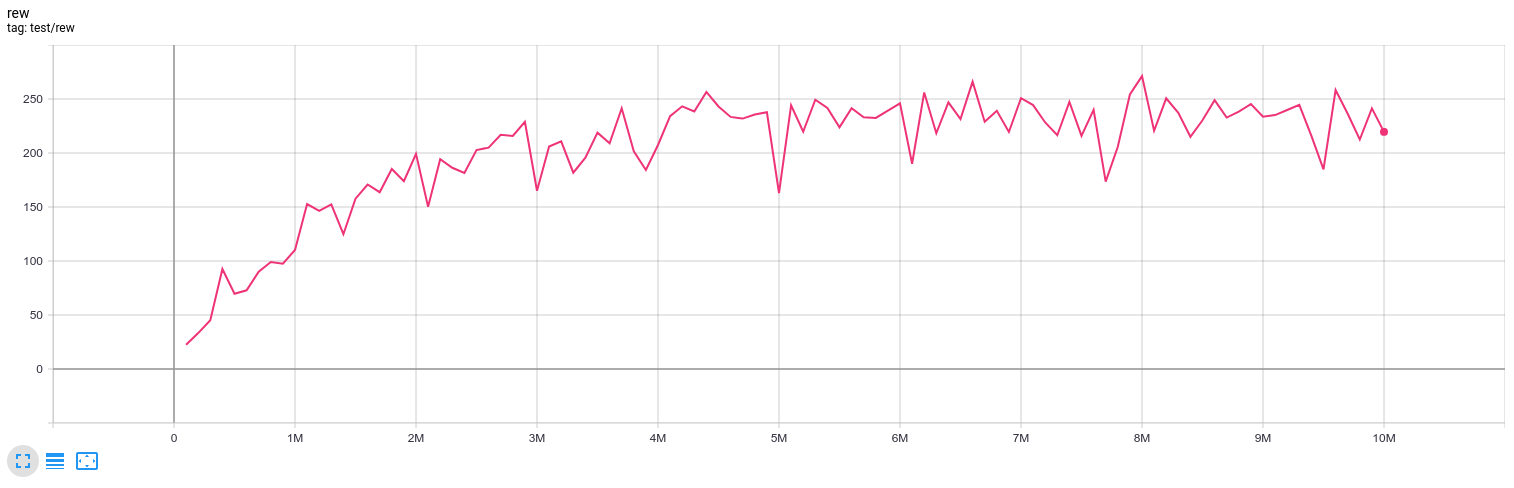
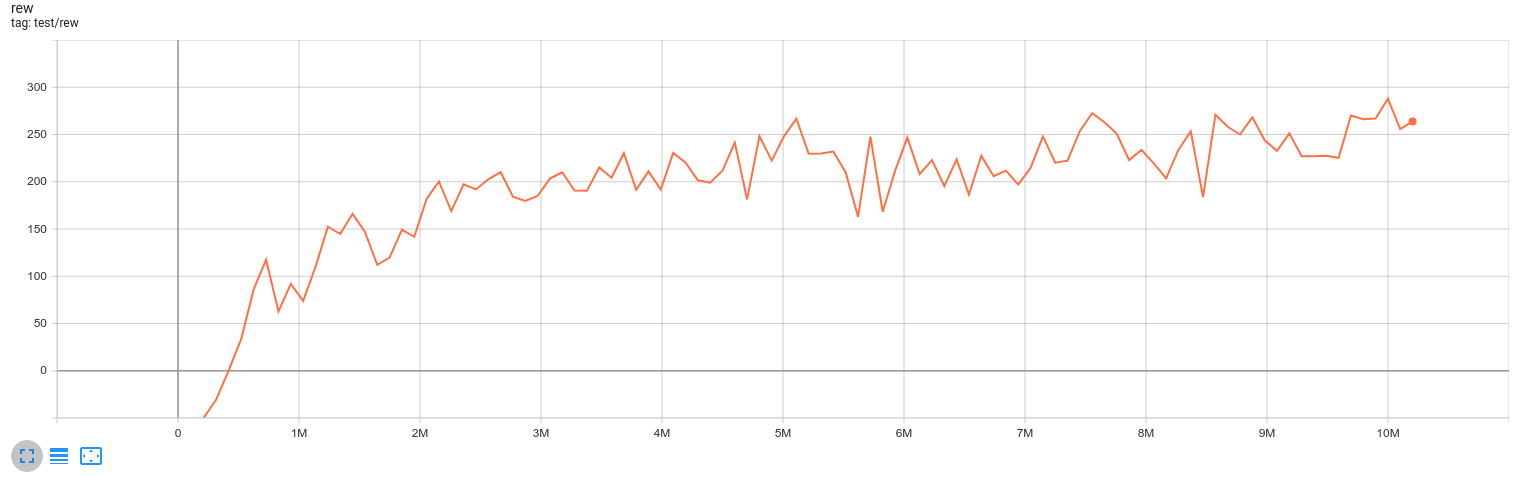
update hparam

diff --git a/examples/box2d/bipedal_hardcore_sac.py b/examples/box2d/bipedal_hardcore_sac.py
@@ -6,11 +6,11 @@ import argparse
 import numpy as np
 from torch.utils.tensorboard import SummaryWriter
 
+from tianshou.policy import SACPolicy
+from tianshou.utils.net.common import Net
 from tianshou.env import SubprocVectorEnv
 from tianshou.trainer import offpolicy_trainer
 from tianshou.data import Collector, ReplayBuffer
-from tianshou.policy import SACPolicy
-from tianshou.utils.net.common import Net
 from tianshou.utils.net.continuous import ActorProb, Critic
 
 
@@ -46,27 +46,26 @@ def get_args():
 class EnvWrapper(object):
     """Env wrapper for reward scale, action repeat and action noise"""
 
-    def __init__(self, task, action_repeat=3, reward_scale=5, act_noise=0.0):
+    def __init__(self, task, action_repeat=3, reward_scale=5, rm_done=True):
         self._env = gym.make(task)
         self.action_repeat = action_repeat
         self.reward_scale = reward_scale
-        self.act_noise = act_noise
+        self.rm_done = rm_done
 
     def __getattr__(self, name):
         return getattr(self._env, name)
 
     def step(self, action):
-        # add action noise
-        action += self.act_noise * (-2 * np.random.random(4) + 1)
         r = 0.0
         for _ in range(self.action_repeat):
-            obs_, reward_, done_, info_ = self._env.step(action)
+            obs, reward, done, info = self._env.step(action)
             # remove done reward penalty
-            if done_:
+            if not done or not self.rm_done:
+                r = r + reward
+            if done:
                 break
-            r = r + reward_
         # scale reward
-        return obs_, self.reward_scale * r, done_, info_
+        return obs, self.reward_scale * r, done, info
 
 
 def test_sac_bipedal(args=get_args()):
@@ -79,8 +78,9 @@ def test_sac_bipedal(args=get_args()):
     train_envs = SubprocVectorEnv(
         [lambda: EnvWrapper(args.task) for _ in range(args.training_num)])
     # test_envs = gym.make(args.task)
-    test_envs = SubprocVectorEnv([lambda: EnvWrapper(args.task, reward_scale=1)
-                                  for _ in range(args.test_num)])
+    test_envs = SubprocVectorEnv([
+        lambda: EnvWrapper(args.task, reward_scale=1, rm_done=False)
+        for _ in range(args.test_num)])
 
     # seed
     np.random.seed(args.seed)

diff --git a/examples/mujoco/mujoco_sac.py b/examples/mujoco/mujoco_sac.py
@@ -27,16 +27,16 @@ def get_args():
     parser.add_argument('--alpha', type=float, default=0.2)
     parser.add_argument('--auto-alpha', type=int, default=0)
     parser.add_argument('--alpha-lr', type=float, default=3e-4)
-    parser.add_argument('--n-step', type=int, default=1)
+    parser.add_argument('--n-step', type=int, default=2)
     parser.add_argument('--epoch', type=int, default=100)
     parser.add_argument('--step-per-epoch', type=int, default=10000)
-    parser.add_argument('--collect-per-step', type=int, default=1)
+    parser.add_argument('--collect-per-step', type=int, default=4)
     parser.add_argument('--update-per-step', type=int, default=1)
     parser.add_argument('--pre-collect-step', type=int, default=10000)
     parser.add_argument('--batch-size', type=int, default=256)
     parser.add_argument('--hidden-layer-size', type=int, default=256)
     parser.add_argument('--layer-num', type=int, default=1)
-    parser.add_argument('--training-num', type=int, default=1)
+    parser.add_argument('--training-num', type=int, default=4)
     parser.add_argument('--test-num', type=int, default=100)
     parser.add_argument('--logdir', type=str, default='log')
     parser.add_argument('--render', type=float, default=0.)

diff --git a/examples/box2d/README.md b/examples/box2d/README.md
@@ -1,6 +1,6 @@
 # Bipedal-Hardcore-SAC
 
-- Our default choice: remove the done flag penalty, will soon converge to \~270 reward within 100 epochs (10M env steps, 3~4 hours, see the image below)
+- Our default choice: remove the done flag penalty, will soon converge to \~280 reward within 100 epochs (10M env steps, 3~4 hours, see the image below)
 - If the done penalty is not removed, it converges much slower than before, about 200 epochs (20M env steps) to reach the same performance (\~200 reward)
 
 ![](results/sac/BipedalHardcore.png)
